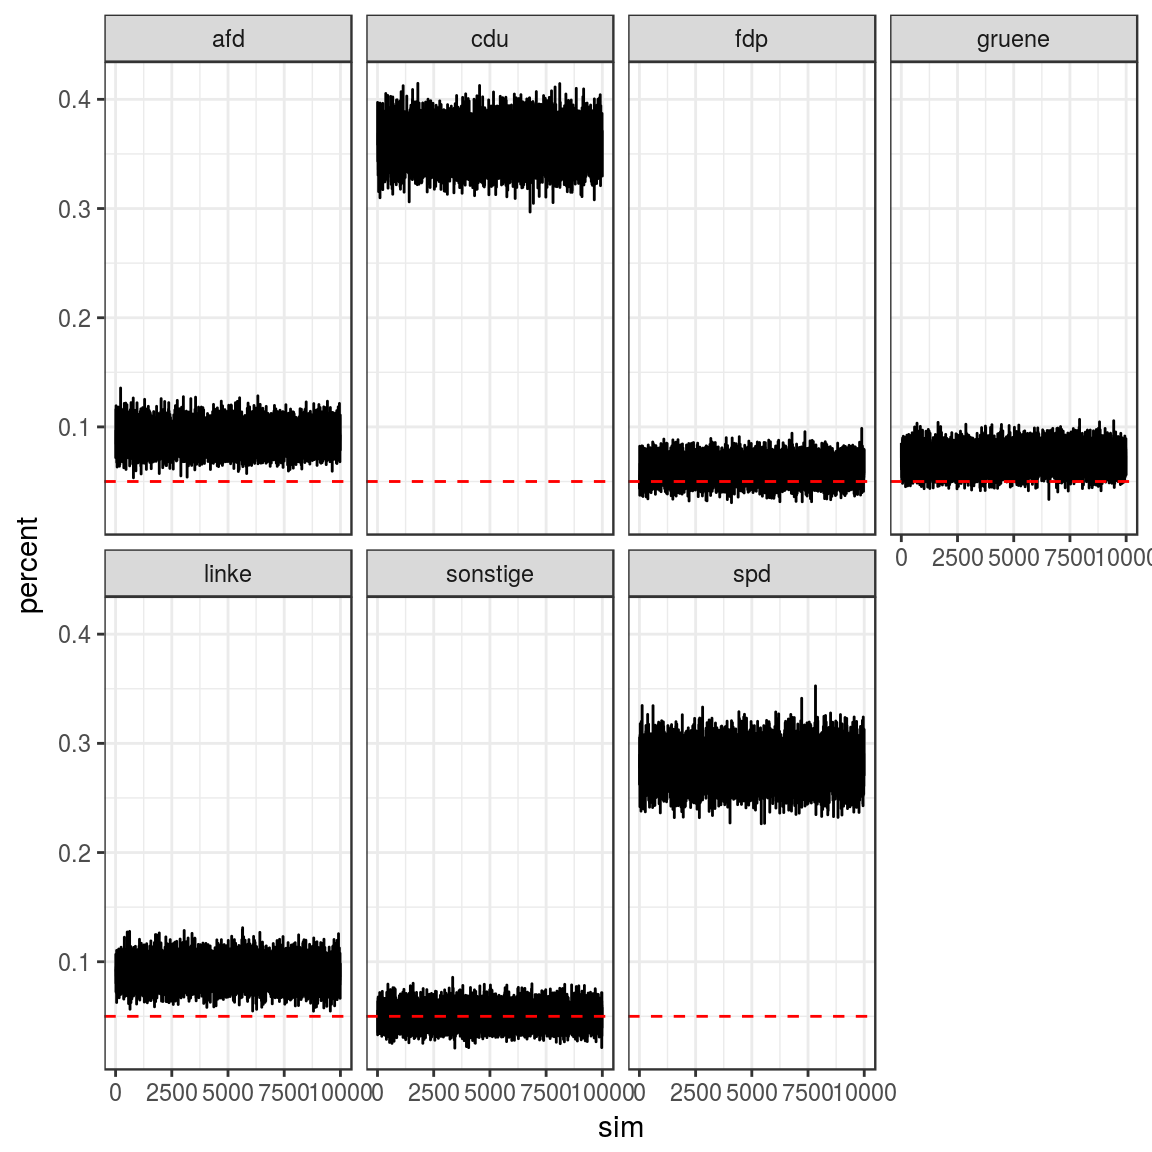
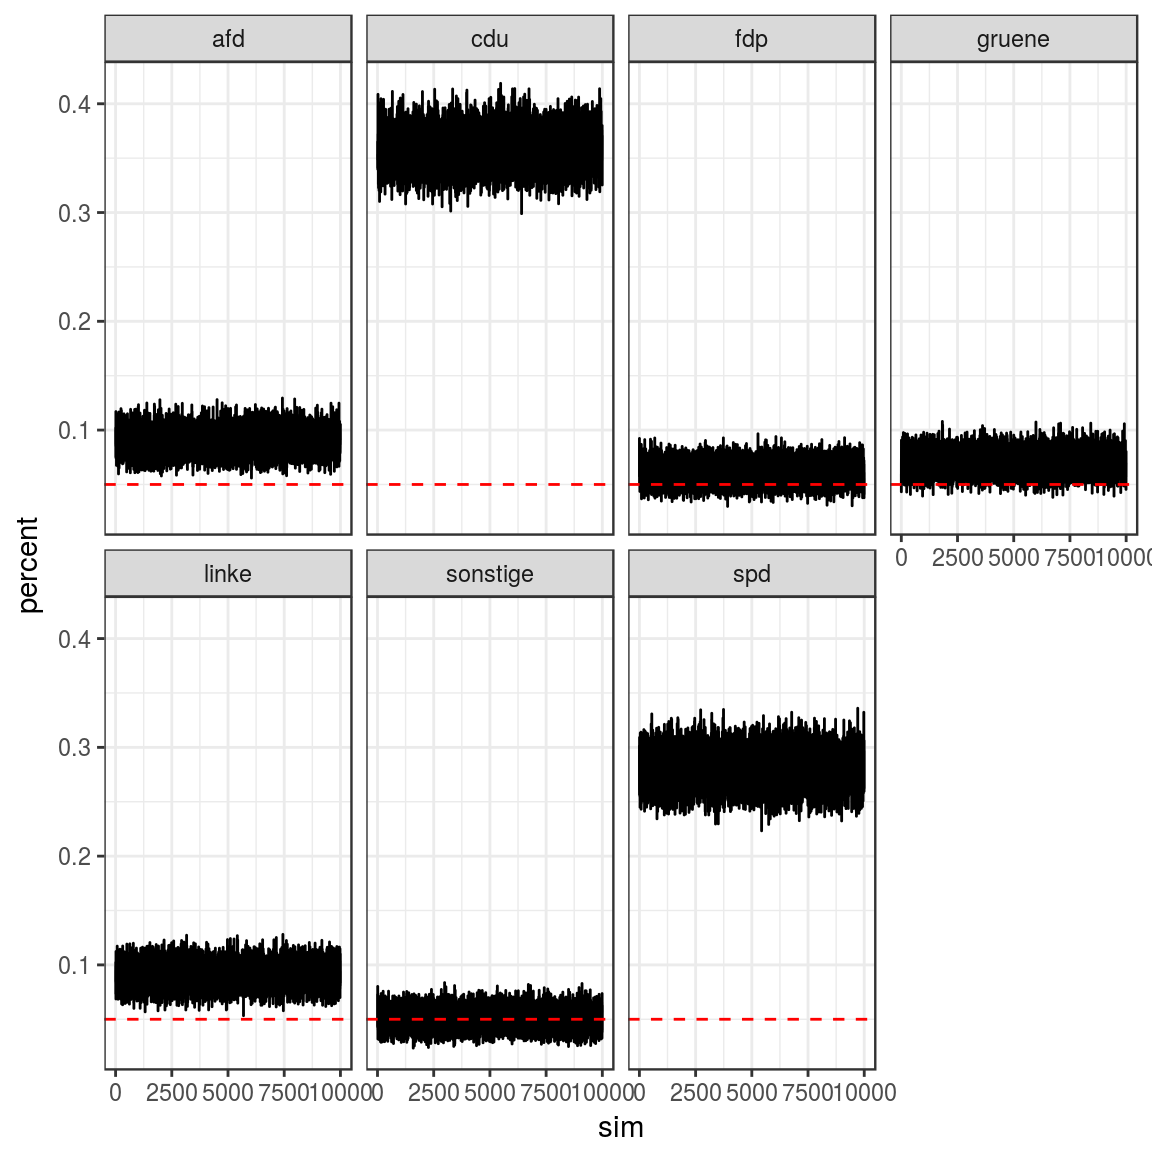
Added methods link to KOALA blog post

diff --git a/docs/articles/workflow.html b/docs/articles/workflow.html
@@ -167,16 +167,16 @@ elong %&gt;%<span class="st"> </span><span class="kw"><a href="http://dplyr.tidy
 <pre><code>## # A tibble: 10 x 7
 ##          cdu       spd     gruene        fdp      linke        afd
 ##        &lt;dbl&gt;     &lt;dbl&gt;      &lt;dbl&gt;      &lt;dbl&gt;      &lt;dbl&gt;      &lt;dbl&gt;
-##  1 0.3787666 0.2365393 0.08258919 0.07900997 0.10556252 0.08103657
-##  2 0.3757182 0.2231958 0.08532629 0.08104520 0.09151806 0.09369408
-##  3 0.3707922 0.2425387 0.08675183 0.08024644 0.08989900 0.07982999
-##  4 0.3856049 0.2457885 0.08354163 0.07143308 0.09178993 0.08156730
-##  5 0.3847593 0.2497988 0.08388365 0.07368077 0.08243569 0.09282622
-##  6 0.3749367 0.2367829 0.07363543 0.08578226 0.09123394 0.09729943
-##  7 0.3840623 0.2396258 0.07905436 0.07837630 0.08074705 0.09174465
-##  8 0.3828159 0.2356277 0.07517575 0.08439253 0.08771695 0.09369628
-##  9 0.3764082 0.2426490 0.06995775 0.08107449 0.09684060 0.09553165
-## 10 0.3703363 0.2154674 0.08191316 0.08825411 0.10543665 0.09226775
+##  1 0.3736780 0.2369959 0.08881941 0.08391430 0.08584738 0.09054215
+##  2 0.3911421 0.2371631 0.07354582 0.08035398 0.09187578 0.08995627
+##  3 0.3785313 0.2445499 0.08610046 0.07830385 0.08516537 0.09252274
+##  4 0.3809440 0.2397577 0.08044386 0.08215249 0.08821944 0.08723402
+##  5 0.4123311 0.2235295 0.07308140 0.07936848 0.08435759 0.08898843
+##  6 0.3764411 0.2409650 0.08238301 0.07570523 0.08760757 0.08796280
+##  7 0.3715032 0.2384314 0.09577480 0.07024085 0.09227626 0.08289457
+##  8 0.3894865 0.2538157 0.08984050 0.07064370 0.07232416 0.08869069
+##  9 0.3885241 0.2341192 0.07209704 0.08089491 0.09967171 0.08737261
+## 10 0.3699350 0.2361351 0.08523837 0.07227037 0.08628887 0.10360627
 ## # ... with 1 more variables: sonstige &lt;dbl&gt;</code></pre>
 </div>
 <div id="calculate-seat-distribution" class="section level2">
@@ -200,16 +200,16 @@ elong %&gt;%<span class="st"> </span><span class="kw"><a href="http://dplyr.tidy
 <pre><code>## # A tibble: 60 x 3
 ##      sim  party seats
 ##    &lt;int&gt;  &lt;chr&gt; &lt;int&gt;
-##  1     1    cdu   235
-##  2     1    spd   147
-##  3     1 gruene    51
-##  4     1    fdp    49
-##  5     1  linke    66
-##  6     1    afd    50
-##  7     2    cdu   236
-##  8     2    spd   140
-##  9     2 gruene    54
-## 10     2    fdp    51
+##  1     1    cdu   233
+##  2     1    spd   148
+##  3     1 gruene    55
+##  4     1    fdp    52
+##  5     1  linke    54
+##  6     1    afd    56
+##  7     2    cdu   242
+##  8     2    spd   147
+##  9     2 gruene    46
+## 10     2    fdp    50
 ## # ... with 50 more rows</code></pre>
 <p>In the above example, given the latest survey, CDU/CSU would have 225 seats in the first simulation, 223 seats in the second simulation, etc.</p>
 </div>
@@ -251,7 +251,7 @@ elong %&gt;%<span class="st"> </span><span class="kw"><a href="http://dplyr.tidy
 ##  2 FALSE   FALSE      FALSE           TRUE FALSE     FALSE      FALSE
 ##  3 FALSE   FALSE      FALSE           TRUE FALSE     FALSE      FALSE
 ##  4 FALSE   FALSE      FALSE           TRUE FALSE     FALSE      FALSE
-##  5 FALSE   FALSE      FALSE           TRUE FALSE     FALSE      FALSE
+##  5 FALSE    TRUE       TRUE           TRUE FALSE     FALSE      FALSE
 ##  6 FALSE   FALSE      FALSE           TRUE FALSE     FALSE      FALSE
 ##  7 FALSE   FALSE      FALSE           TRUE FALSE     FALSE      FALSE
 ##  8 FALSE   FALSE      FALSE           TRUE FALSE     FALSE      FALSE
@@ -282,9 +282,9 @@ elong %&gt;%<span class="st"> </span><span class="kw"><a href="http://dplyr.tidy
 ##          coalition probability
 ##              &lt;chr&gt;       &lt;dbl&gt;
 ## 1              cdu           0
-## 2          cdu_fdp           0
-## 3       cdu_gruene           0
-## 4   cdu_fdp_gruene         100
+## 2          cdu_fdp          10
+## 3       cdu_gruene          10
+## 4   cdu_fdp_gruene          90
 ## 5              spd           0
 ## 6        linke_spd           0
 ## 7       gruene_spd           0

diff --git a/docs/articles/KOALA.html b/docs/articles/KOALA.html
@@ -101,12 +101,10 @@
 <p>In Zusammenarbeit mit <a href="http://www.zeit.de/serie/wahlistik">ZEIT ONLINE</a> hat das <a href="http://www.stablab.stat.uni-muenchen.de/index.html">Statistische Beratungslabor (StaBLab) der LMU</a> deshalb 2013 ein Verfahren entwickelt, dass eine <strong>genauere und aussagekräftigere Interpretation von Umfragen</strong> erlaubt.</p>
 <p>Zur Bundestagswahl 2017 laufen unsere Analysen unter dem Namen <a href="http://koala.stat.uni-muenchen.de/">#koala17</a>:</p>
 <ul>
-<li>Detaillierte Auswertungen bietet unser <a href="http://koala.stat.uni-muenchen.de/">interaktives Tool</a>
-</li>
-<li>Aktuelle Updates gibt es in unserem <a href="https://twitter.com/KOALA_LMU">Twitter feed</a>
-</li>
-<li>Details zur Implementierung findet man in unserem Open Source R-Pakett <a href="https://adibender.github.io/coalitions/">coalitions</a>
-</li>
+<li><p>Aktuelle Updates gibt es in unserem <a href="https://twitter.com/KOALA_LMU">Twitter feed</a></p></li>
+<li><p>Detaillierte Auswertungen bietet unser <a href="http://koala.stat.uni-muenchen.de/">interaktives Tool</a></p></li>
+<li><p>Details zur Methodik finden sich <a href="http://www.stablab.stat.uni-muenchen.de/forschung/koala/methodik.pdf">hier</a></p></li>
+<li><p>Details zur Implementierung findet man in unserem Open Source R-Pakett <a href="https://adibender.github.io/coalitions/">coalitions</a></p></li>
 </ul>
 <div id="warum-reicht-es-nicht-anteile-zu-betrachten" class="section level2">
 <h2 class="hasAnchor">
@@ -340,7 +338,7 @@ Wahrscheinlichkeit
 Union
 </td>
 <td style="text-align:right;">
-0.27 %
+0.33 %
 </td>
 </tr>
 <tr>
@@ -348,7 +346,7 @@ Union
 Union - FDP
 </td>
 <td style="text-align:right;">
-27.23 %
+28.05 %
 </td>
 </tr>
 <tr>
@@ -356,7 +354,7 @@ Union - FDP
 Union - Grüne
 </td>
 <td style="text-align:right;">
-99.7 %
+99.64 %
 </td>
 </tr>
 <tr>
@@ -388,7 +386,7 @@ SPD - Die Linke
 SPD - Die Linke - Grüne
 </td>
 <td style="text-align:right;">
-67.53 %
+66.21 %
 </td>
 </tr>
 </tbody>

diff --git a/docs/index.html b/docs/index.html
@@ -166,8 +166,8 @@ survey %&gt;%<span class="st"> </span><span class="kw"><a href="http://www.rdocu
 ##    institute      datum        coalition probability
 ##        &lt;chr&gt;     &lt;date&gt;            &lt;chr&gt;       &lt;dbl&gt;
 ## 1 allensbach 2017-07-18              cdu        0.00
-## 2 allensbach 2017-07-18          cdu_fdp       54.45
-## 3 allensbach 2017-07-18   cdu_fdp_gruene       45.55
+## 2 allensbach 2017-07-18          cdu_fdp       54.89
+## 3 allensbach 2017-07-18   cdu_fdp_gruene       45.11
 ## 4 allensbach 2017-07-18              spd        0.00
 ## 5 allensbach 2017-07-18        linke_spd        0.00
 ## 6 allensbach 2017-07-18 gruene_linke_spd        0.00</code></pre>

diff --git a/docs/articles/diagnostic.html b/docs/articles/diagnostic.html
@@ -123,10 +123,10 @@ draws_long &lt;-<span class="st"> </span><span class="kw"><a href="http://www.rd
 ##      &lt;chr&gt;     &lt;dbl&gt;
 ## 1      afd    1.0000
 ## 2      cdu    1.0000
-## 3      fdp    0.8683
-## 4   gruene    0.9847
+## 3      fdp    0.8654
+## 4   gruene    0.9858
 ## 5    linke    1.0000
-## 6 sonstige    0.5045
+## 6 sonstige    0.5101
 ## 7      spd    1.0000</code></pre>
 </div>
   </div>

diff --git a/docs/articles/index.html b/docs/articles/index.html
@@ -96,7 +96,7 @@
       </header>
 
       <div class="page-header">
-  <h1>Articles <small>version&nbsp;0.4.1.901</small></h1>
+  <h1>Articles <small>version&nbsp;0.4.1.902</small></h1>
 </div>
 
 <div class="row">

diff --git a/docs/reference/index.html b/docs/reference/index.html
@@ -100,7 +100,7 @@
     <div class="page-header">
       <h1>
         Reference
-        <small>version&nbsp;0.4.1.901</small>
+        <small>version&nbsp;0.4.1.902</small>
       </h1>
     </div>
 

diff --git a/README.md b/README.md
@@ -103,8 +103,8 @@ survey %>% get_probabilities(nsim=1e4) %>% unnest()
     ##    institute      datum        coalition probability
     ##        <chr>     <date>            <chr>       <dbl>
     ## 1 allensbach 2017-07-18              cdu        0.00
-    ## 2 allensbach 2017-07-18          cdu_fdp       53.58
-    ## 3 allensbach 2017-07-18   cdu_fdp_gruene       46.42
+    ## 2 allensbach 2017-07-18          cdu_fdp       55.38
+    ## 3 allensbach 2017-07-18   cdu_fdp_gruene       44.62
     ## 4 allensbach 2017-07-18              spd        0.00
     ## 5 allensbach 2017-07-18        linke_spd        0.00
     ## 6 allensbach 2017-07-18 gruene_linke_spd        0.00
